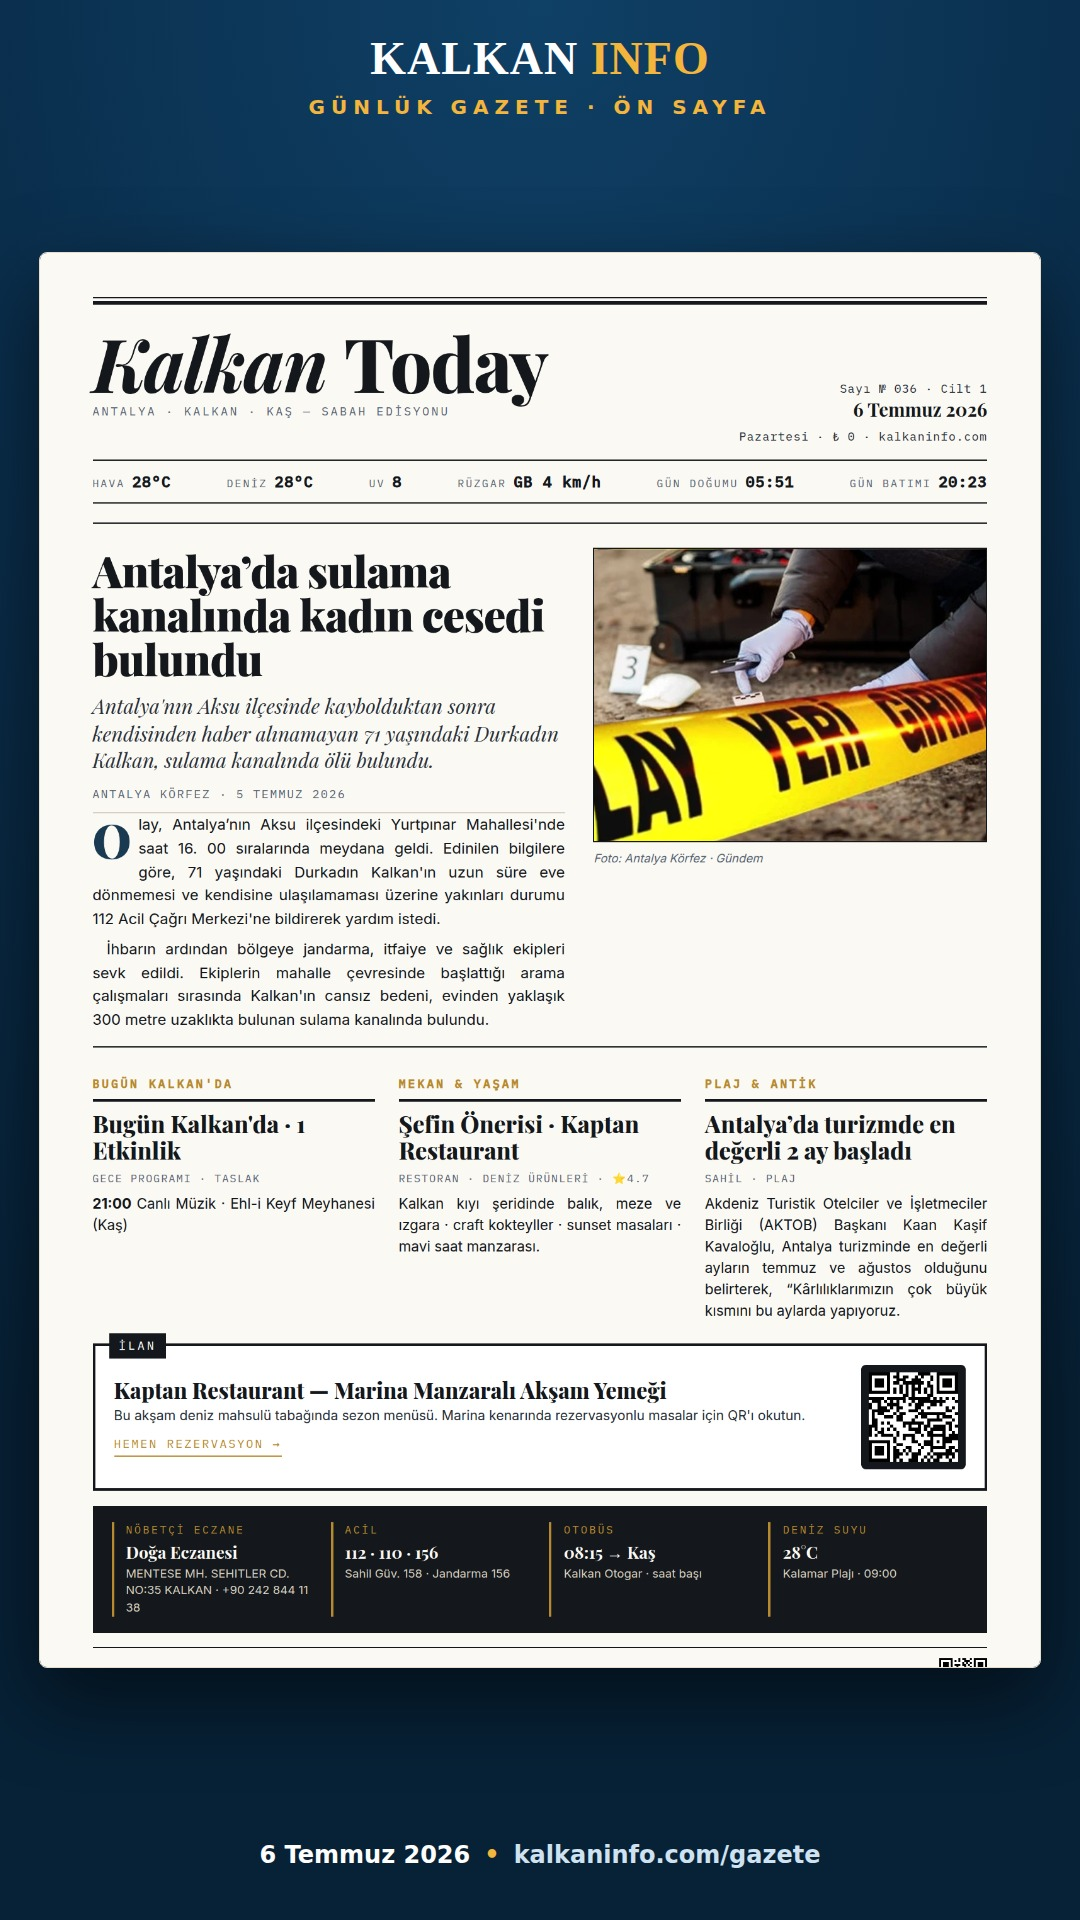
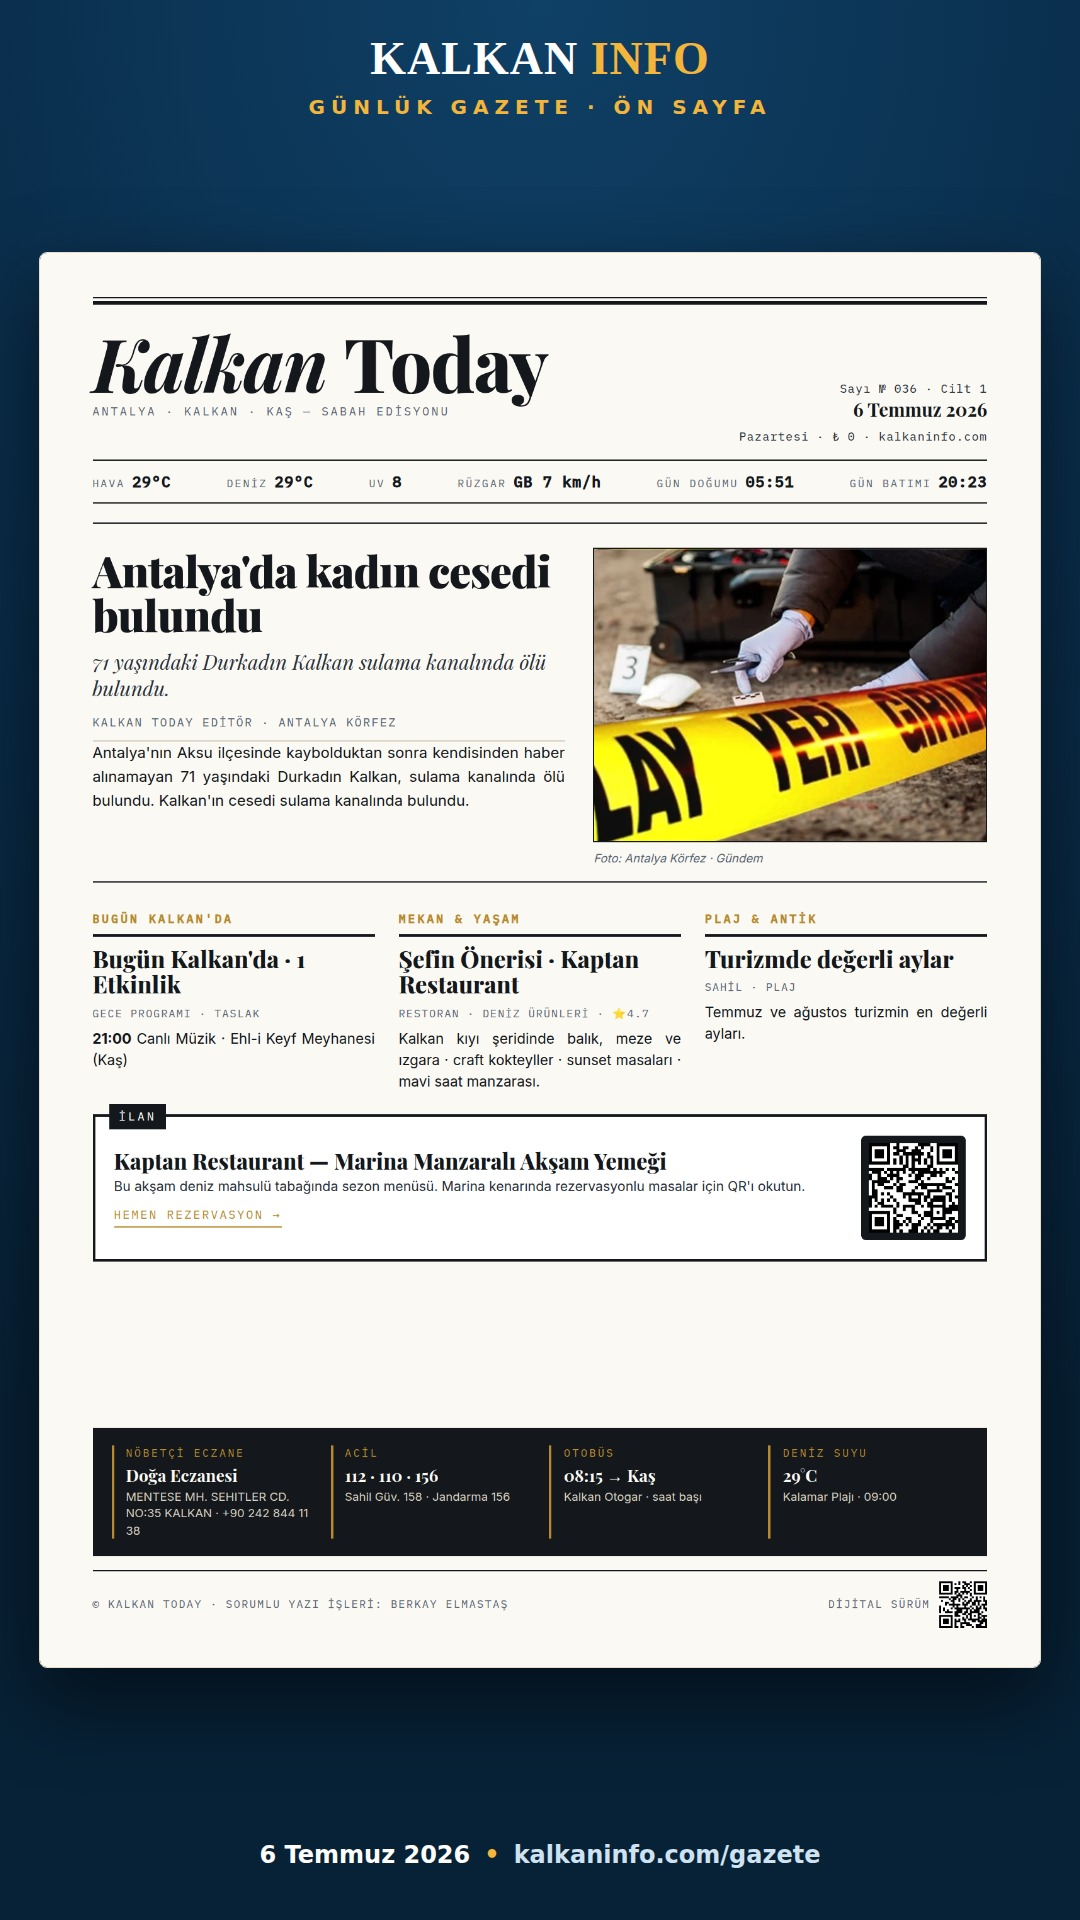
content(gazete): günlük sayı 2026-07-06 [auto]

Changed region(s): [[0.0611, 0.2812, 0.9167, 0.875]]

diff --git a/newspaper/archive/2026-07-06/morning.html b/newspaper/archive/2026-07-06/morning.html
@@ -339,10 +339,10 @@
       </div>
     </div>
     <div class="weather-strip">
-      <div class="item"><span class="lbl">Hava</span><span class="val">28°C</span></div>
-      <div class="item"><span class="lbl">Deniz</span><span class="val">28°C</span></div>
+      <div class="item"><span class="lbl">Hava</span><span class="val">29°C</span></div>
+      <div class="item"><span class="lbl">Deniz</span><span class="val">29°C</span></div>
       <div class="item"><span class="lbl">UV</span><span class="val">8</span></div>
-      <div class="item"><span class="lbl">Rüzgar</span><span class="val">GB 4 km/h</span></div>
+      <div class="item"><span class="lbl">Rüzgar</span><span class="val">GB 7 km/h</span></div>
       <div class="item"><span class="lbl">Gün Doğumu</span><span class="val">05:51</span></div>
       <div class="item"><span class="lbl">Gün Batımı</span><span class="val">20:23</span></div>
     </div>
@@ -351,12 +351,11 @@
   <!-- ═══ LEAD STORY ═══ -->
   <section class="lead">
     <div>
-      <h1 class="lead-headline">Antalya’da sulama kanalında kadın cesedi bulundu</h1>
-      <p class="lead-deck">Antalya'nın Aksu ilçesinde kaybolduktan sonra kendisinden haber alınamayan 71 yaşındaki Durkadın Kalkan, sulama kanalında ölü bulundu.</p>
-      <div class="lead-byline">Antalya Körfez · 5 Temmuz 2026</div>
+      <h1 class="lead-headline">Antalya'da kadın cesedi bulundu</h1>
+      <p class="lead-deck">71 yaşındaki Durkadın Kalkan sulama kanalında ölü bulundu.</p>
+      <div class="lead-byline">Kalkan Today Editör · Antalya Körfez</div>
       <div class="lead-body">
-        <p>Olay, Antalya’nın Aksu ilçesindeki Yurtpınar Mahallesi'nde saat 16. 00 sıralarında meydana geldi.  Edinilen bilgilere göre, 71 yaşındaki Durkadın Kalkan'ın uzun süre eve dönmemesi ve kendisine ulaşılamaması üzerine yakınları durumu 112 Acil Çağrı Merkezi'ne bildirerek yardım istedi.</p>
-<p>İhbarın ardından bölgeye jandarma, itfaiye ve sağlık ekipleri sevk edildi.  Ekiplerin mahalle çevresinde başlattığı arama çalışmaları sırasında Kalkan'ın cansız bedeni, evinden yaklaşık 300 metre uzaklıkta bulunan sulama kanalında bulundu.</p>
+        Antalya'nın Aksu ilçesinde kaybolduktan sonra kendisinden haber alınamayan 71 yaşındaki Durkadın Kalkan, sulama kanalında ölü bulundu. Kalkan'ın cesedi sulama kanalında bulundu.
       </div>
     </div>
     <div>
@@ -383,9 +382,9 @@
 
     <article class="col">
       <h3 class="kicker">Plaj & Antik</h3>
-      <h2>Antalya’da turizmde en değerli 2 ay başladı</h2>
+      <h2>Turizmde değerli aylar</h2>
       <div class="byline">Sahil · Plaj</div>
-      <p>Akdeniz Turistik Otelciler ve İşletmeciler Birliği (AKTOB) Başkanı Kaan Kaşif Kavaloğlu, Antalya turizminde en değerli ayların temmuz ve ağustos olduğunu belirterek, “Kârlılıklarımızın çok büyük kısmını bu aylarda yapıyoruz.</p>
+      <p>Temmuz ve ağustos turizmin en değerli ayları.</p>
     </article>
   </section>
 
@@ -420,7 +419,7 @@
     </div>
     <div class="svc">
       <div class="lbl">Deniz Suyu</div>
-      <div class="val">28°C</div>
+      <div class="val">29°C</div>
       <div class="sub">Kalamar Plajı · 09:00</div>
     </div>
   </section>
